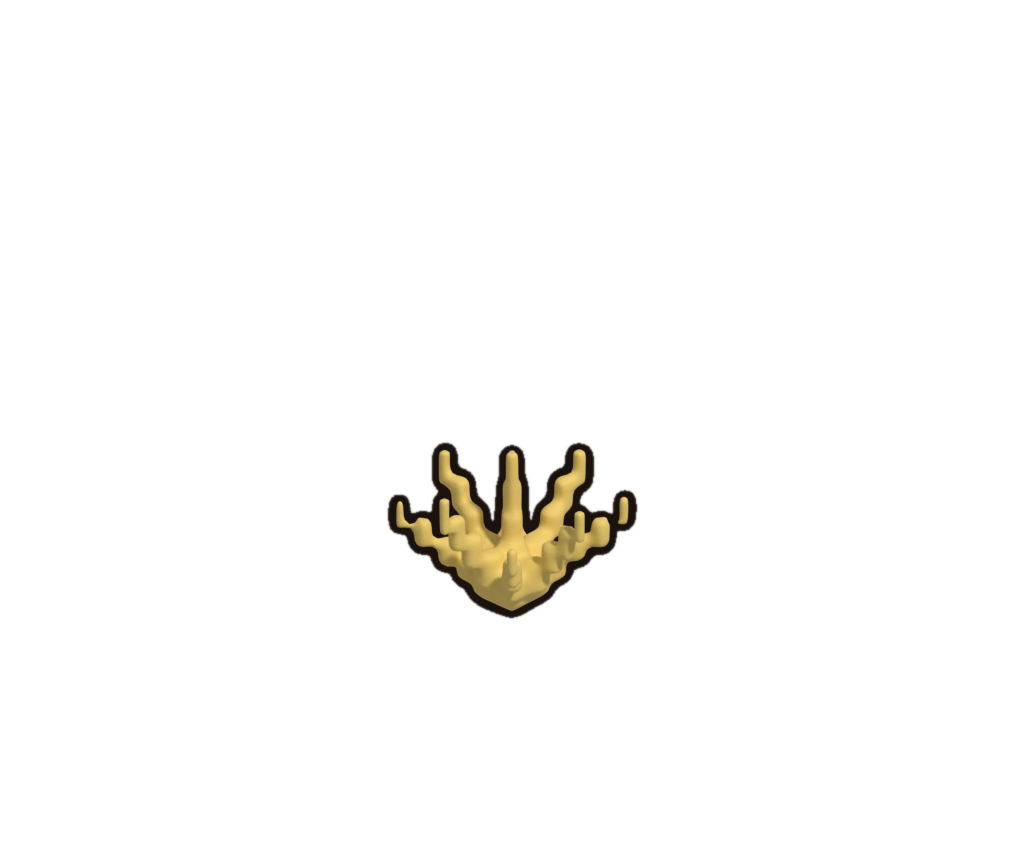
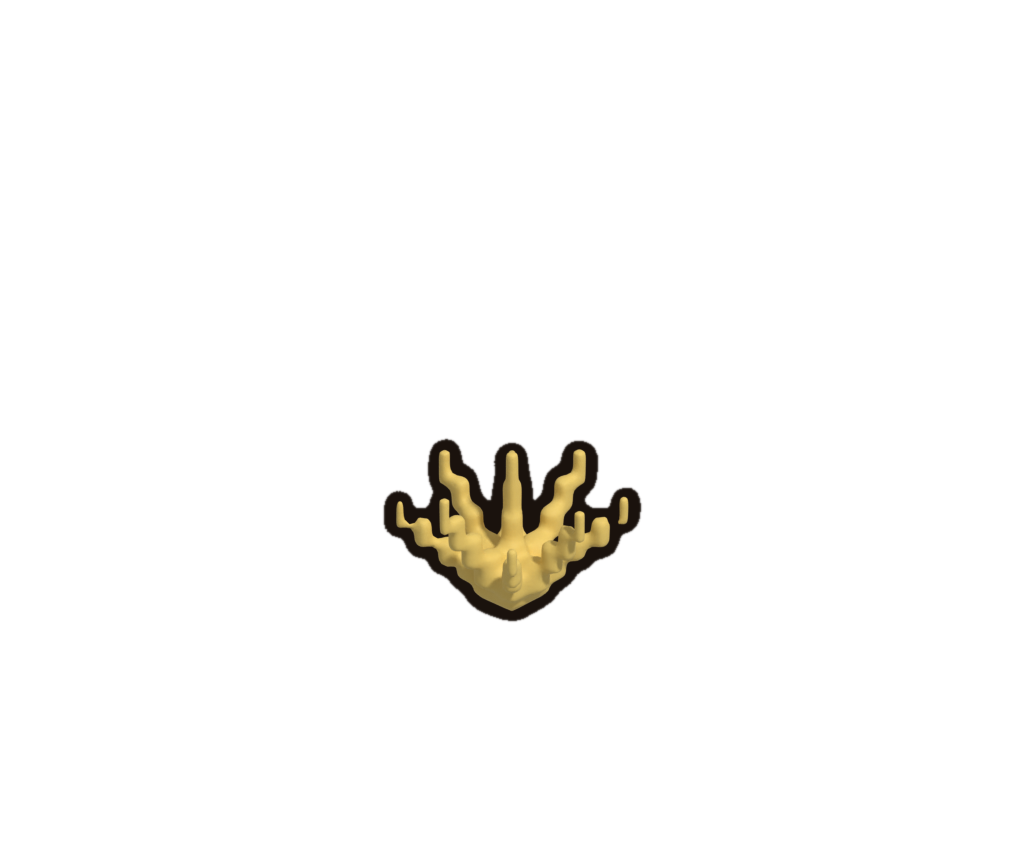
feat(items): thicken the item sprite outline
Claude-Session: https://claude.ai/code/session_01QGjZPqKKwqLnz8xJvoX4yW

diff --git a/artifacts/vox/clay/item_outline.py b/artifacts/vox/clay/item_outline.py
@@ -9,7 +9,7 @@
 # vox_items.py --render calls it after every render. It is idempotent: an outlined PNG carries a
 # text chunk and is skipped, so running it twice never thickens the line. The sprites are drawn
 # small in the middle of a 1024 x 853 canvas and shrunk about three times when the atlas is
-# built, so the line is OUTLINE_PX of the source: about two pixels in the atlas.
+# built, so the line is OUTLINE_PX of the source: about three pixels in the atlas.
 import math
 import os
 import sys
@@ -18,8 +18,8 @@ import numpy as np
 from PIL import Image, ImageFilter, PngImagePlugin
 
 INK = (0x1A, 0x12, 0x0D)  # --ac-ink
-OUTLINE_PX = 7.0  # the line's width in the 1024-wide source
-WOBBLE_PX = 1.6  # how far the line strays from a true offset curve
+OUTLINE_PX = 11.0 # the line's width in the 1024-wide source
+WOBBLE_PX = 2.2  # how far the line strays from a true offset curve
 WOBBLE_CELL = 26  # the size of one wobble, in source pixels
 MARKER = "armada-outline"
 

diff --git a/lib/docs/ASSET-PIPELINE.md b/lib/docs/ASSET-PIPELINE.md
@@ -80,7 +80,7 @@ piedra y de construcción: muros y tejados sobre el mismo módulo de 28.
 
 `artifacts/vox/clay/vox_items.py` arma los items que caen al suelo al recolectar (madera, piedra,
 fibra, hongo, coco, hueso, cobre y ámbar): montones pequeños en el centro de un volumen 1x1x1,
-renderizados a `lib/assets/items/<id>.png`, que cada item de `content/json/items.json` nombra en `sprite`. Cada sprite lleva un **contorno de tinta negra** (`#1a120d`, el `--ac-ink` del kit de UI) algo ondulado, de 7 px en el original (unos dos en el atlas), como el recorte de papel de la interfaz: lo dibuja `artifacts/vox/clay/item_outline.py`, que `vox_items.py --render` llama tras cada render. Es idempotente (el PNG ya contorneado lleva un chunk `armada-outline` y se salta). Tras cambiar un sprite de item: `python3 lib/scripts/build-ui-icons.py`, copiar `web/ui/items/*.png` a `content/ui/items/` y `lib/scripts/build-atlas.sh`.
+renderizados a `lib/assets/items/<id>.png`, que cada item de `content/json/items.json` nombra en `sprite`. Cada sprite lleva un **contorno de tinta negra** (`#1a120d`, el `--ac-ink` del kit de UI) algo ondulado, de 11 px en el original (unos tres en el atlas), como el recorte de papel de la interfaz: lo dibuja `artifacts/vox/clay/item_outline.py`, que `vox_items.py --render` llama tras cada render. Es idempotente (el PNG ya contorneado lleva un chunk `armada-outline` y se salta). Tras cambiar un sprite de item: `python3 lib/scripts/build-ui-icons.py`, copiar `web/ui/items/*.png` a `content/ui/items/` y `lib/scripts/build-atlas.sh`.
 
 `artifacts/vox/clay/terrain_clay.py` genera todo el terreno de suelo: hierba
 (`grass/block.png` y `block_2..4.png`), tierra (`ground/block.png`, `block_2..3.png`), arena
